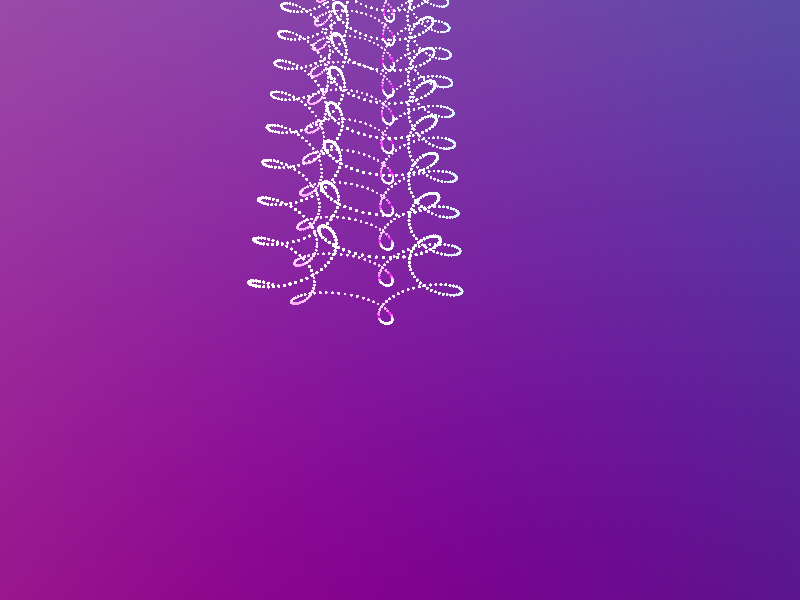
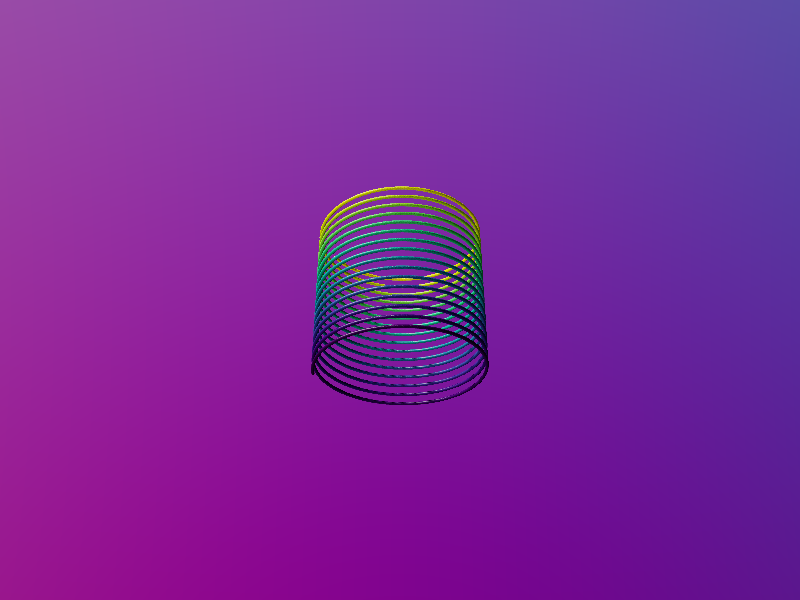
Add shader-compiled colormaps
colormap(t, Colormap::Viridis) in Rust and vl.colormap(t, "viridis")
in Python map a value in [0, 1] to a color entirely on the GPU, using
Matt Zucker's CC0 polynomial fits of the matplotlib colormaps
(viridis, plasma, magma, inferno). The input is clamped and the result
converted from sRGB to linear to match the shader color space.

Use it in the README example and refresh the screenshot.

Changed region(s): [[0.3125, 0.0, 0.625, 0.69], [0.3125, 0.45, 0.3438, 0.48]]

diff --git a/visula_core/src/colormap.rs b/visula_core/src/colormap.rs
@@ -1,0 +1,80 @@
+use crate::value::{clamp, vec3, Expression};
+
+#[derive(Clone, Copy, Debug, PartialEq, Eq)]
+pub enum Colormap {
+    Viridis,
+    Plasma,
+    Magma,
+    Inferno,
+}
+
+// Polynomial fits of the matplotlib colormaps by Matt Zucker (CC0),
+// https://www.shadertoy.com/view/WlfXRN
+#[allow(clippy::excessive_precision)]
+const VIRIDIS: [[f32; 3]; 7] = [
+    [0.2777273272234177, 0.005407344544966578, 0.3340998053353061],
+    [0.1050930431085774, 1.404613529898575, 1.384590162594685],
+    [-0.3308618287255563, 0.214847559468213, 0.09509516302823659],
+    [-4.634230498983486, -5.799100973351585, -19.33244095627987],
+    [6.228269936347081, 14.17993336680509, 56.69055260068105],
+    [4.776384997670288, -13.74514537774601, -65.35303263337234],
+    [-5.435455855934631, 4.645852612178535, 26.3124352495832],
+];
+
+#[allow(clippy::excessive_precision)]
+const PLASMA: [[f32; 3]; 7] = [
+    [0.05873234392399702, 0.02333670892565664, 0.5433401826748754],
+    [2.176514634195958, 0.2383834171260182, 0.7539604599784036],
+    [-2.689460476458034, -7.455851135738909, 3.110799939717086],
+    [6.130348345893603, 42.3461881477227, -28.51885465332158],
+    [-11.10743619062271, -82.66631109428045, 60.13984767418263],
+    [10.02306557647065, 71.41361770095349, -54.07218655560067],
+    [-3.658713842777788, -22.93153465461149, 18.19190778539828],
+];
+
+#[allow(clippy::excessive_precision)]
+const MAGMA: [[f32; 3]; 7] = [
+    [
+        -0.002136485053939582,
+        -0.000749655052795221,
+        -0.005386127855323933,
+    ],
+    [0.2516605407371642, 0.6775232436837668, 2.494026599312351],
+    [8.353717279216625, -3.577719514958484, 0.3144679030132573],
+    [-27.66873308576866, 14.26473078096533, -13.64921318813922],
+    [52.17613981234068, -27.94360607168351, 12.94416944238394],
+    [-50.76852536473588, 29.04658282127291, 4.23415299384598],
+    [18.65570506591883, -11.48977351997711, -5.601961508734096],
+];
+
+#[allow(clippy::excessive_precision)]
+const INFERNO: [[f32; 3]; 7] = [
+    [
+        0.0002189403691192265,
+        0.001651004631001012,
+        -0.01948089843709184,
+    ],
+    [0.1065134194856116, 0.5639564367884091, 3.932712388889277],
+    [11.60249308247187, -3.972853965665698, -15.9423941062914],
+    [-41.70399613139459, 17.43639888205313, 44.35414519872813],
+    [77.162935699427, -33.40235894210092, -81.80730925738993],
+    [-71.31942824499214, 32.62606426397723, 73.20951985803202],
+    [25.13112622477341, -12.24266895238567, -23.07032500287172],
+];
+
+pub fn colormap(value: impl Into<Expression>, map: Colormap) -> Expression {
+    let coefficients = match map {
+        Colormap::Viridis => &VIRIDIS,
+        Colormap::Plasma => &PLASMA,
+        Colormap::Magma => &MAGMA,
+        Colormap::Inferno => &INFERNO,
+    };
+    let t = clamp(value.into(), 0.0, 1.0);
+    let mut color: Expression = glam::Vec3::from_array(coefficients[6]).into();
+    for c in coefficients[..6].iter().rev() {
+        color = Expression::from(glam::Vec3::from_array(*c)) + t.clone() * color;
+    }
+    // The fits produce sRGB-encoded values, while the shaders work in
+    // linear color, so decode with the common gamma approximation.
+    clamp(color, glam::Vec3::ZERO, glam::Vec3::ONE).pow(vec3(2.2, 2.2, 2.2))
+}

diff --git a/visula_pyo3/src/lib_impl.rs b/visula_pyo3/src/lib_impl.rs
@@ -659,6 +659,25 @@ impl PyInstanceBuffer {
 }
 
 #[pyfunction]
+#[pyo3(signature = (value, name="viridis"))]
+fn colormap(value: &PyExpression, name: &str) -> PyResult<PyExpression> {
+    let map = match name.to_lowercase().as_str() {
+        "viridis" => visula_core::Colormap::Viridis,
+        "plasma" => visula_core::Colormap::Plasma,
+        "magma" => visula_core::Colormap::Magma,
+        "inferno" => visula_core::Colormap::Inferno,
+        _ => {
+            return Err(PyRuntimeError::new_err(format!(
+                "Unknown colormap '{name}', expected one of: viridis, plasma, magma, inferno"
+            )))
+        }
+    };
+    Ok(PyExpression {
+        inner: visula_core::colormap(&value.inner, map),
+    })
+}
+
+#[pyfunction]
 fn vec2(x: &PyExpression, y: &PyExpression) -> PyExpression {
     PyExpression {
         inner: visula_core::vec2(&x.inner, &y.inner),
@@ -887,6 +906,7 @@ fn show(
 fn visula_pyo3(_py: Python, m: &Bound<PyModule>) -> PyResult<()> {
     m.add_function(wrap_pyfunction!(show, m)?)?;
     m.add_function(wrap_pyfunction!(convert, m)?)?;
+    m.add_function(wrap_pyfunction!(colormap, m)?)?;
     m.add_function(wrap_pyfunction!(vec2, m)?)?;
     m.add_function(wrap_pyfunction!(vec3, m)?)?;
     m.add_function(wrap_pyfunction!(vec4, m)?)?;

diff --git a/visula/src/lib.rs b/visula/src/lib.rs
@@ -34,8 +34,8 @@ pub use cgmath;
 pub use egui_wgpu;
 pub use visula_core;
 pub use visula_core::{
-    clamp, glam, max, min, mix, naga, smoothstep, step, uuid, vec2, vec3, vec4, wgpu, Expression,
-    InstanceBuffer, InstanceDeviceExt, TextureInput, UniformBuffer,
+    clamp, colormap, glam, max, min, mix, naga, smoothstep, step, uuid, vec2, vec3, vec4, wgpu,
+    Colormap, Expression, InstanceBuffer, InstanceDeviceExt, TextureInput, UniformBuffer,
 };
 
 pub mod application;

diff --git a/visula_core/src/lib.rs b/visula_core/src/lib.rs
@@ -1,4 +1,5 @@
 pub mod binding_builder;
+pub mod colormap;
 pub mod inject;
 pub mod input;
 pub mod instance_binding;
@@ -17,6 +18,7 @@ pub mod delegate;
 pub mod error;
 
 pub use binding_builder::*;
+pub use colormap::*;
 pub use delegate::*;
 pub use error::*;
 pub use input::*;

diff --git a/visula_pyo3/python/visula/__init__.py b/visula_pyo3/python/visula/__init__.py
@@ -7,6 +7,7 @@ from .math import (
     atan2,
     ceil,
     clamp,
+    colormap,
     cos,
     cross,
     distance,
@@ -44,6 +45,7 @@ __all__ = [
     "atan2",
     "ceil",
     "clamp",
+    "colormap",
     "cos",
     "cross",
     "distance",

diff --git a/visula_pyo3/python/visula/math.py b/visula_pyo3/python/visula/math.py
@@ -1,4 +1,9 @@
+from ._visula_pyo3 import colormap as _colormap
 from .expression import Expression, _ensure_expression
+
+
+def colormap(value, name="viridis"):
+    return Expression(_colormap(Expression(value).inner, name))
 
 
 def _unary(name):

diff --git a/README.md b/README.md
@@ -24,12 +24,12 @@ import visula as vl
 import numpy as np
 
 t = InstanceBuffer(np.linspace(0, 100, 100_000))
-position = 10.0 * vl.vec3(vl.cos(t), vl.sin(t), t)
+position = 10.0 * vl.vec3(vl.cos(t), vl.sin(t), t / 50.0 - 1.0)
 
 spheres = Spheres(
     position=position,
     radius=0.2,
-    color=position / 4.0,
+    color=vl.colormap(t / 100.0, "viridis"),
 )
 
 Figure().show([spheres])
@@ -38,6 +38,7 @@ Figure().show([spheres])
 Here, `position`, `radius` and `color` are all expressions.
 Visula compiles these into the shader and evaluates them per instance on the GPU.
 This means that there is only one array `t` uploaded to the GPU.
+The `colormap` function maps a value in [0, 1] to a color — `viridis`, `plasma`, `magma` and `inferno` are available — and it too runs in the shader.
 
 ![Python spheres](screenshots/python_spheres.png)
 
